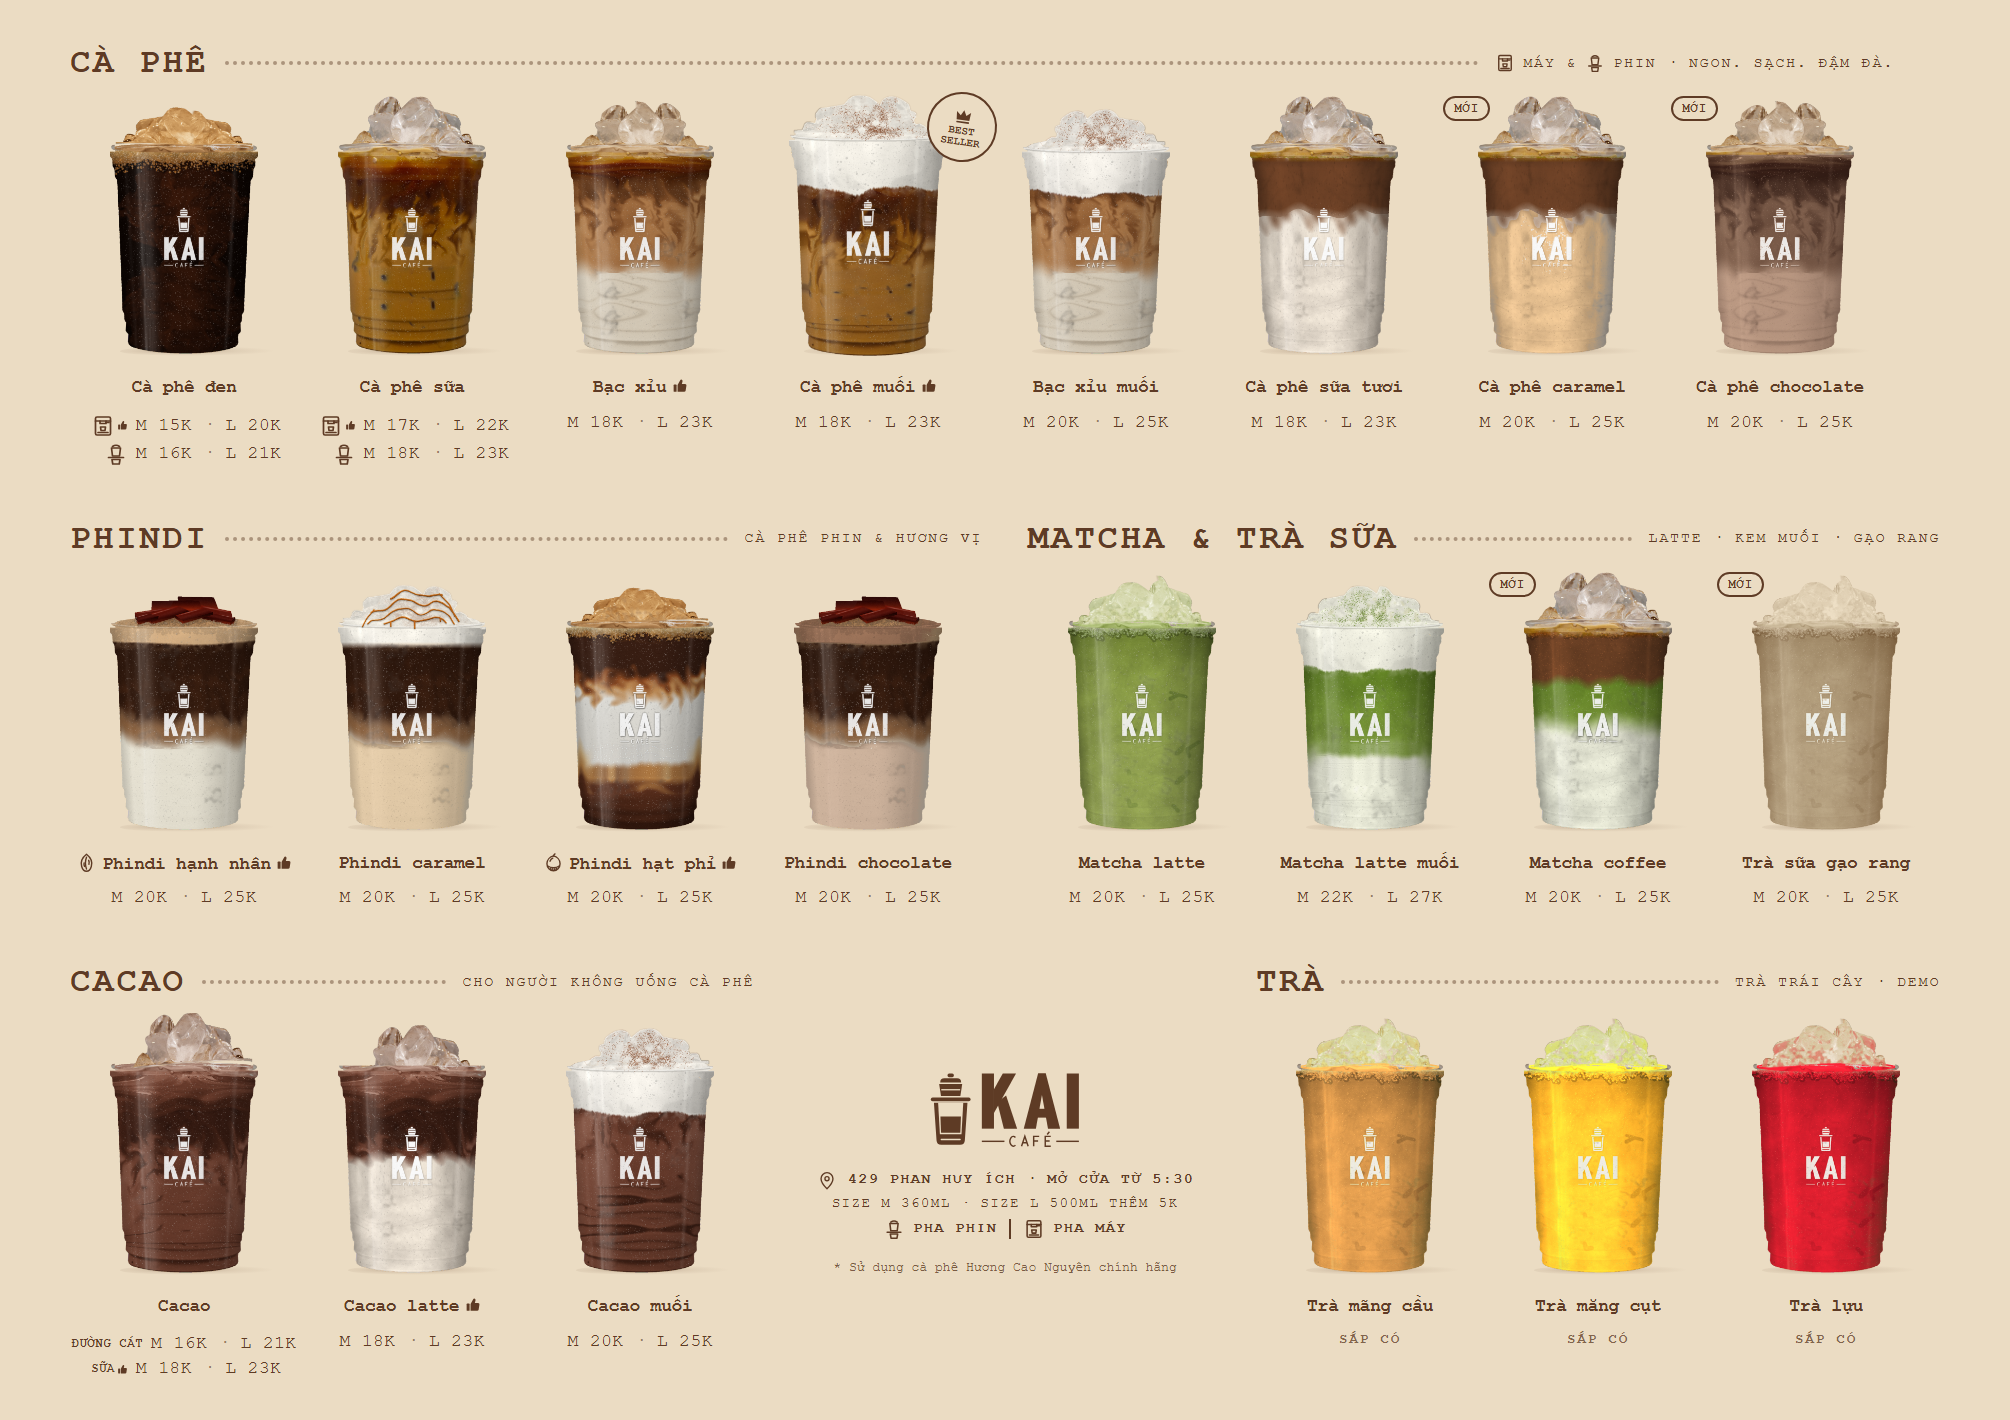
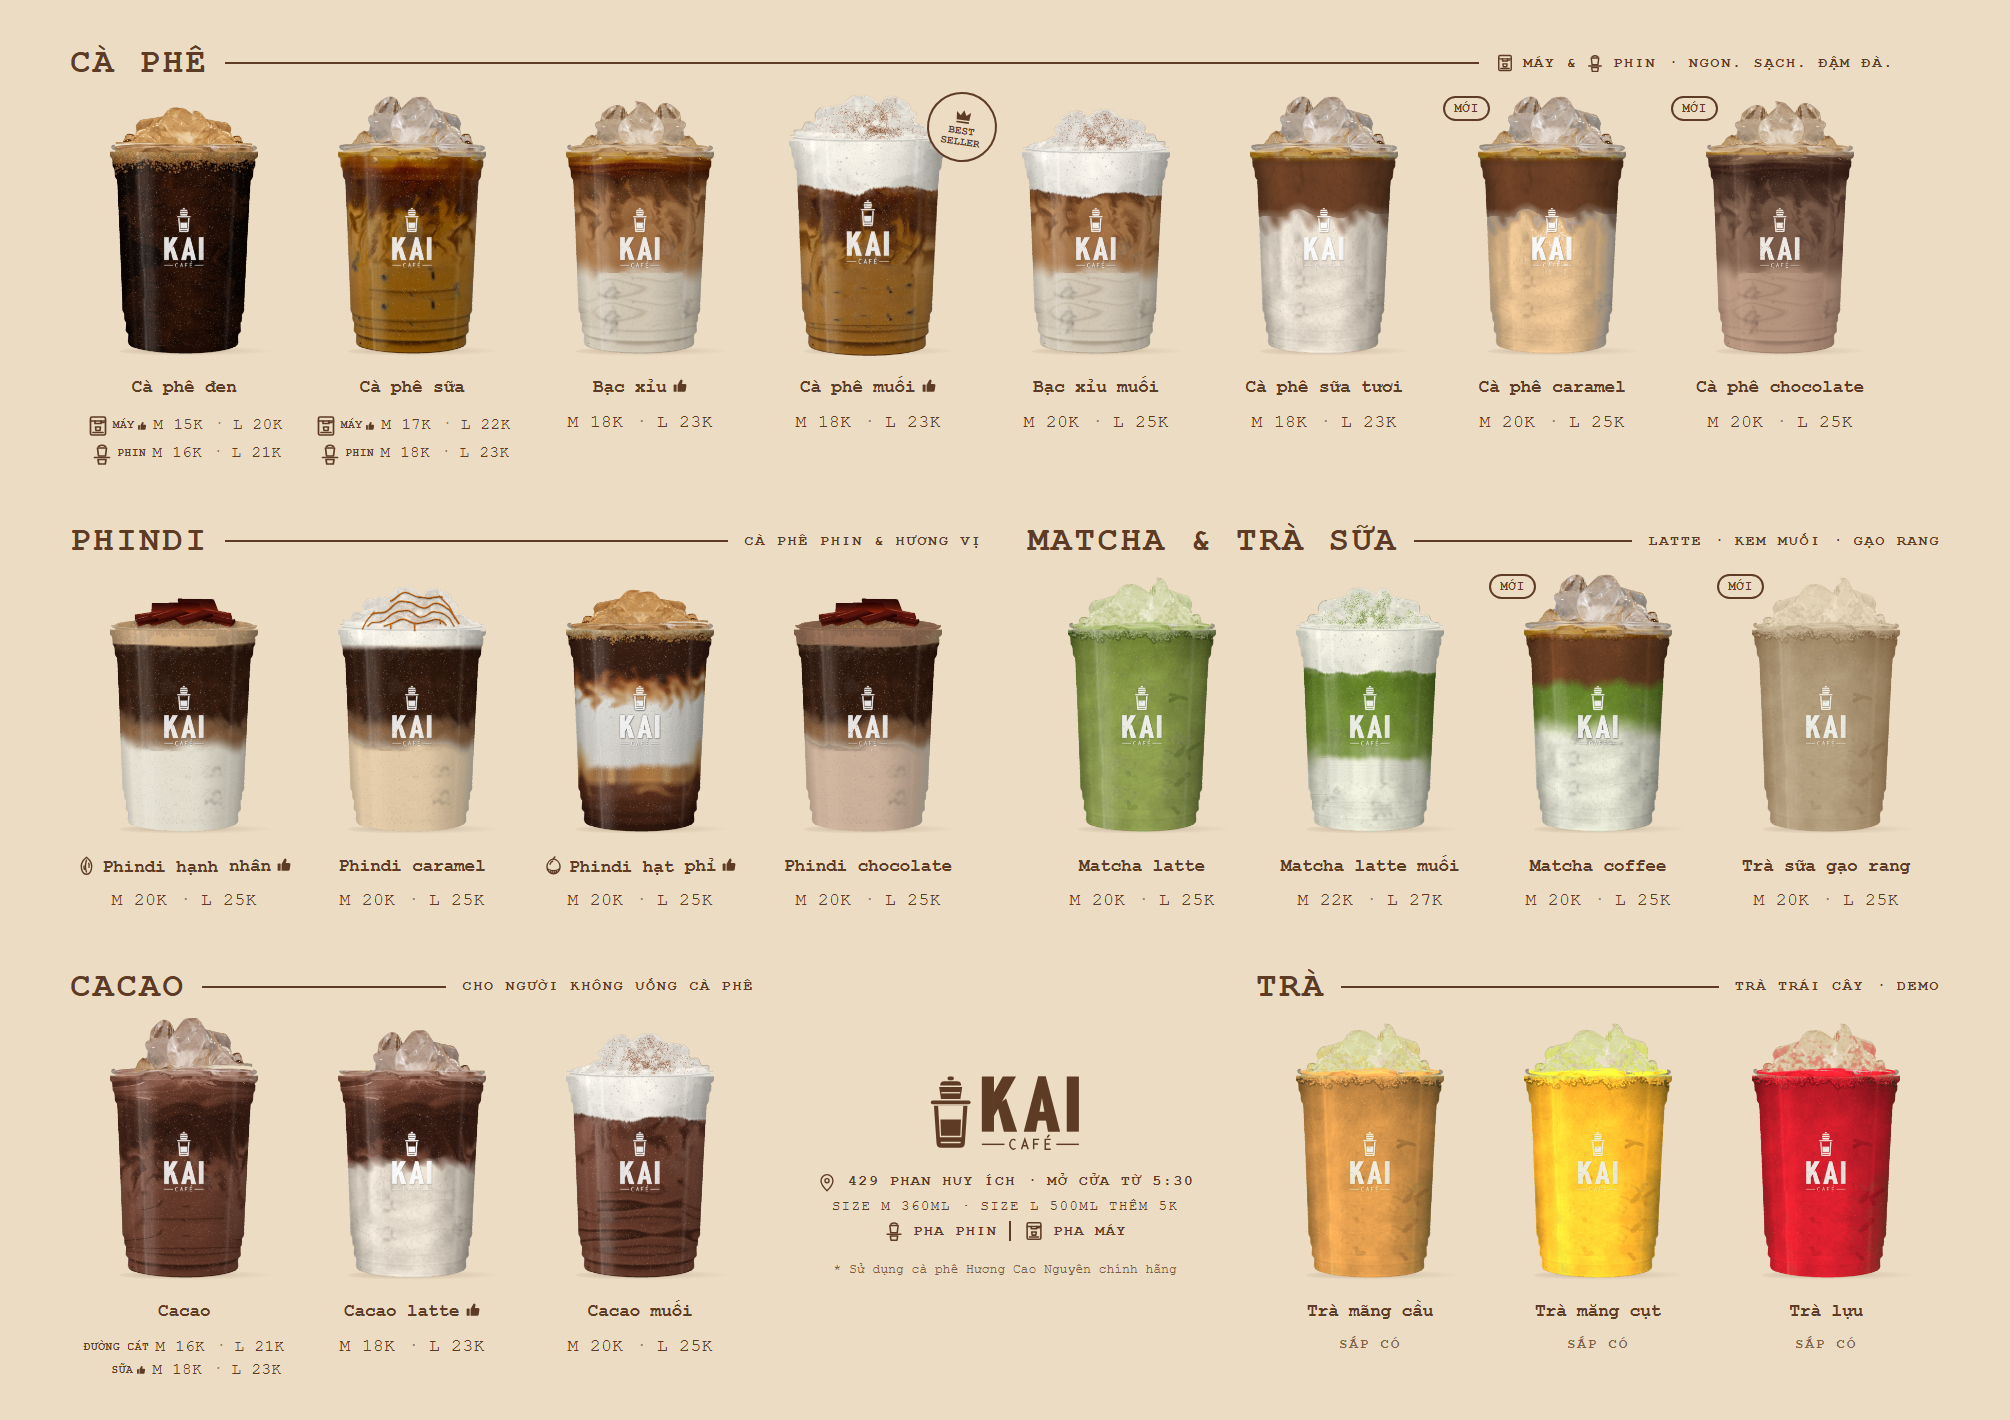
v1.7.319: menu clean net lien, chu phu dam, them chu may/phin

diff --git a/index.html b/index.html
@@ -3880,7 +3880,7 @@ function renderPlan(){
 
 /* ============ render: KIỂM CHỨNG (định lượng · công thức · dữ liệu cần thêm · tự kiểm) ============
  * Nguyên tắc: (1) "Data sẵn sàng?" trước khi tin số, (2) chỉ kết luận khi đủ mẫu, (3) giả định và điểm mù hiện ra ở UI, (4) tự kiểm bất biến bằng code chạy trên chính data đang xem. */
-const BAN_DASH = 'v1.7.318';   // bump ĐỦ 3 chỗ: hằng này · dòng đầu CHANGELOG · (chip thanh bên và tiêu đề "Có gì mới" tự lấy từ đây); bất biến 19 kiểm điều này
+const BAN_DASH = 'v1.7.319';   // bump ĐỦ 3 chỗ: hằng này · dòng đầu CHANGELOG · (chip thanh bên và tiêu đề "Có gì mới" tự lấy từ đây); bất biến 19 kiểm điều này
 const KIEM_NL = {   // nguồn số đang dùng + độ tin cậy (1 ước tính · 2 Kai chốt · 3 có hoá đơn / ghi trên bao bì) + cách kiểm cho từng nguyên liệu (mã tab Kho)
   cf:{nguon:'Kai chốt 18g = 45ml, 1 kg ≈ 55 ly; giá 240.000 đ/kg (sổ chi ghi 0 đ vì được tặng 5kg → dùng giá tham chiếu)', tin:2, cach:'Cân 5 lần pha thực tế; sau 3 ngày gõ /kiemkho cf so với số ước tính'},
   cfb:{nguon:'Cà phê Phố Núi 1,5 kg · 375.000 đ – chưa có món nào dùng trong công thức', tin:1, cach:'Xác nhận món phin dùng cà phê hạt hay bột rồi điền cột cfb'},
@@ -3938,6 +3938,7 @@ const GLOSS_KAI = [   // định nghĩa & công thức mọi con số quan trọ
   ['Dự báo ngày mai', 'Chỉ lấy ngày cùng loại giá với ngày mai (giá thường / đồng giá 15K; chưa đủ 3 ngày thì bỏ ngày khai trương 10K) · TB các ngày cùng thứ gần nhất (≥ 2 ngày, thiếu thì TB 7 ngày) × hệ số khuyến mãi / mưa khi đủ dữ liệu', 'Đơn bot', 'Hiệu suất'],
 ];
 const CHANGELOG = [   // dòng đầu = bản hiện hành; mỗi bản nhiều ý ngắn · v1.7.176: chỉ giữ ~12 bản mới nhất ở đây, bản cũ hơn nằm ở changelog-cu.json (tải khi mở Kiểm chứng) — quá 20 bản thì chuyển bớt sang file đó (thêm vào ĐẦU mảng json)
+  {v:'v1.7.319', ngay:'22/11/2026', nd:['Tài liệu: Menu bản clean — đường kẻ tiêu đề nhóm nét liền, chữ phụ đậm hơn; dòng giá cà phê đen / sữa có lại chữ máy / phin cạnh icon']},
   {v:'v1.7.318', ngay:'22/11/2026', nd:['Tài liệu: Menu bản clean hàng cuối xếp Cacao │ logo (nhỏ lại) │ khối Trà sát lề phải, thẳng cột với Matcha']},
   {v:'v1.7.317', ngay:'22/11/2026', nd:['Tài liệu: Menu bản clean thêm khối Trà (demo) ở hàng cuối cạnh Cacao — trà mãng cầu, trà măng cụt, trà lựu; ảnh ly đổi màu theo ảnh mẫu, chưa có giá (ghi Sắp có)']},
   {v:'v1.7.316', ngay:'22/11/2026', nd:['Tài liệu: Menu ảnh từng món bản 2 xếp lại 8 · 8 · 3 — trái Cà phê 8 ly, phải Phindi rồi Matcha & trà sữa, hàng cuối Cacao + logo; tên món không còn xuống dòng']},
@@ -5079,7 +5080,7 @@ const TAI_LIEU = [
   {nhom:'Ảnh bìa', ten:'Tối giản · 640 × 700', mo:'Logo giữa, 3 ly, nền be · cỡ ảnh bìa Zalo 640 × 700 (vùng an toàn 640 × 340 ở giữa)', ngay:'08/11/2026', anh:'anh-bia_toi-gian_640x700.png', file:[['Tải ảnh 640 × 700', 'anh-bia_toi-gian_640x700.png']]},
   {nhom:'Ấn phẩm', ten:'Menu cầm tay', mo:'Bản đang dùng · 4 khối Cà phê · Cacao · Phindi · Matcha & trà sữa, có 4 món mới (bán từ 10/11), giá M │ L, nút like món bán chạy · 22/11: thêm icon máy / phin cạnh cà phê đen, sữa và icon hạnh nhân / hạt phỉ như standee, chân menu ghi “mở cửa từ 5:30” · chữ Courier New (PDF in đã chuyển thành hình) · A3 ngang 420 × 297 mm (chưa có lề tràn) · file PDF in: hỏi Marketing (không để trên dashboard)', ngay:'22/11/2026', anh:'menu-cam-tay-icon.png', file:[['Ảnh xem trước', 'menu-cam-tay-icon.png']]},
   {nhom:'Ấn phẩm', ten:'Menu cầm tay · ảnh từng món (nháp)', mo:'Bản 2 chờ chủ duyệt · toàn nền kem, mọi ly cùng cỡ · bố cục 8 · 8 · 3: trái Cà phê │ phải Phindi rồi Matcha & trà sữa │ hàng cuối Cacao + logo, địa chỉ · mỗi món một ảnh ly + nút giá M │ L như standee vòm · cà phê đen / sữa (máy, phin) và cacao (đường cát, sữa) chung một ảnh, mỗi kiểu một dòng giá · ghi “mở cửa từ 5:30” · A3 ngang 420 × 297 mm, chữ đã chuyển thành hình · file PDF in (16 MB): hỏi Marketing (không để trên dashboard)', ngay:'22/11/2026', anh:'menu-anh-tung-mon.png', file:[['Ảnh xem trước', 'menu-anh-tung-mon.png']]},
-  {nhom:'Ấn phẩm', ten:'Menu cầm tay · bản clean (nháp)', mo:'Chờ chủ duyệt · theo mẫu menu tablet: ly nhỏ cùng cỡ xếp thoáng, tiêu đề nhóm nhỏ + đường chấm, giá chữ trơn M · L (không nút) · nền kem như menu cầm tay · 3 hàng: Cà phê (8) │ Phindi + Matcha & trà sữa (8) │ Cacao · logo, địa chỉ · Trà sát phải (demo: mãng cầu, măng cụt, lựu — ảnh đổi màu, chưa giá) · A3 ngang 420 × 297 mm, chữ đã chuyển thành hình · file PDF in (16 MB): hỏi Marketing (không để trên dashboard)', ngay:'22/11/2026', anh:'menu-clean.png', file:[['Ảnh xem trước', 'menu-clean.png']]},
+  {nhom:'Ấn phẩm', ten:'Menu cầm tay · bản clean (nháp)', mo:'Chờ chủ duyệt · theo mẫu menu tablet: ly nhỏ cùng cỡ xếp thoáng, tiêu đề nhóm nhỏ + đường kẻ liền, giá chữ trơn M · L (không nút) · nền kem như menu cầm tay · 3 hàng: Cà phê (8) │ Phindi + Matcha & trà sữa (8) │ Cacao · logo, địa chỉ · Trà sát phải (demo: mãng cầu, măng cụt, lựu — ảnh đổi màu, chưa giá) · A3 ngang 420 × 297 mm, chữ đã chuyển thành hình · file PDF in (16 MB): hỏi Marketing (không để trên dashboard)', ngay:'22/11/2026', anh:'menu-clean.png', file:[['Ảnh xem trước', 'menu-clean.png']]},
   {nhom:'Ấn phẩm', ten:'Standee vòm ảnh thật · đã dán sticker', mo:'Standee cắt vòm 59,8 × 101,4 cm, giá chỉ từ 15K · dán 3 sticker Ø 10 cm: +5K size lớn (trái nhãn 15K), mua 5 tặng 1 (phải nhãn 15K), thân thiết −2K (cạnh BEST SELLER) · mở cửa 5:30 – 10:30 · file in có lề 3 mm, chữ đã phá nét (08/11) · gửi nhà in kèm file đường cắt + ghi chú · file PDF in: hỏi Marketing (không để trên dashboard)', ngay:'08/11/2026', anh:'standee-vom_dan-3-sticker.png', file:[['Ảnh đã dán sticker', 'standee-vom_dan-3-sticker.png'], ['PDF đường cắt vòm', 'standee-vom_duong-cat_598x1014mm.pdf'], ['Ghi chú gửi nhà in', 'standee-vom_ghi-chu-nha-in.txt'], ['Ảnh standee chưa dán', 'standee-vom.png'], ['PDF A4 bộ dán standee (3 loại)', 'sticker-tron_A4_bo-dan-standee.pdf']]},
   {nhom:'Ấn phẩm', ten:'Bảng món mới A3', mo:'Bán từ 10/11 · 4 món mới: Cà phê caramel · Cà phê chocolate · Matcha coffee · Trà sữa gạo rang + Phindi caramel · Phindi chocolate (chưa có trên standee vòm) · cả 6 món M 20K │ L 25K · A3 ngang 420 × 297 mm · ảnh ly món mới là ảnh ghép, chưa phải ảnh chụp · file PDF in: hỏi Marketing (không để trên dashboard)', ngay:'09/11/2026', anh:'bang-mon-moi_A3.png', file:[['Ảnh xem trước', 'bang-mon-moi_A3.png']]},
   {nhom:'Ấn phẩm', ten:'Công thức size M │ L có ảnh món', mo:'Mỗi món một thẻ: ảnh ly + định lượng M 360 ml │ L 500 ml · 4 nhóm Cà phê · Cacao · Phindi · Matcha & trà sữa (món muối nằm trong nhóm gốc) · in A3 dán xe · file PDF in: hỏi Marketing (không để trên dashboard)', ngay:'12/11/2026', anh:'cong-thuc-M-L-co-anh.png', file:[['Ảnh xem trước', 'cong-thuc-M-L-co-anh.png']]},
